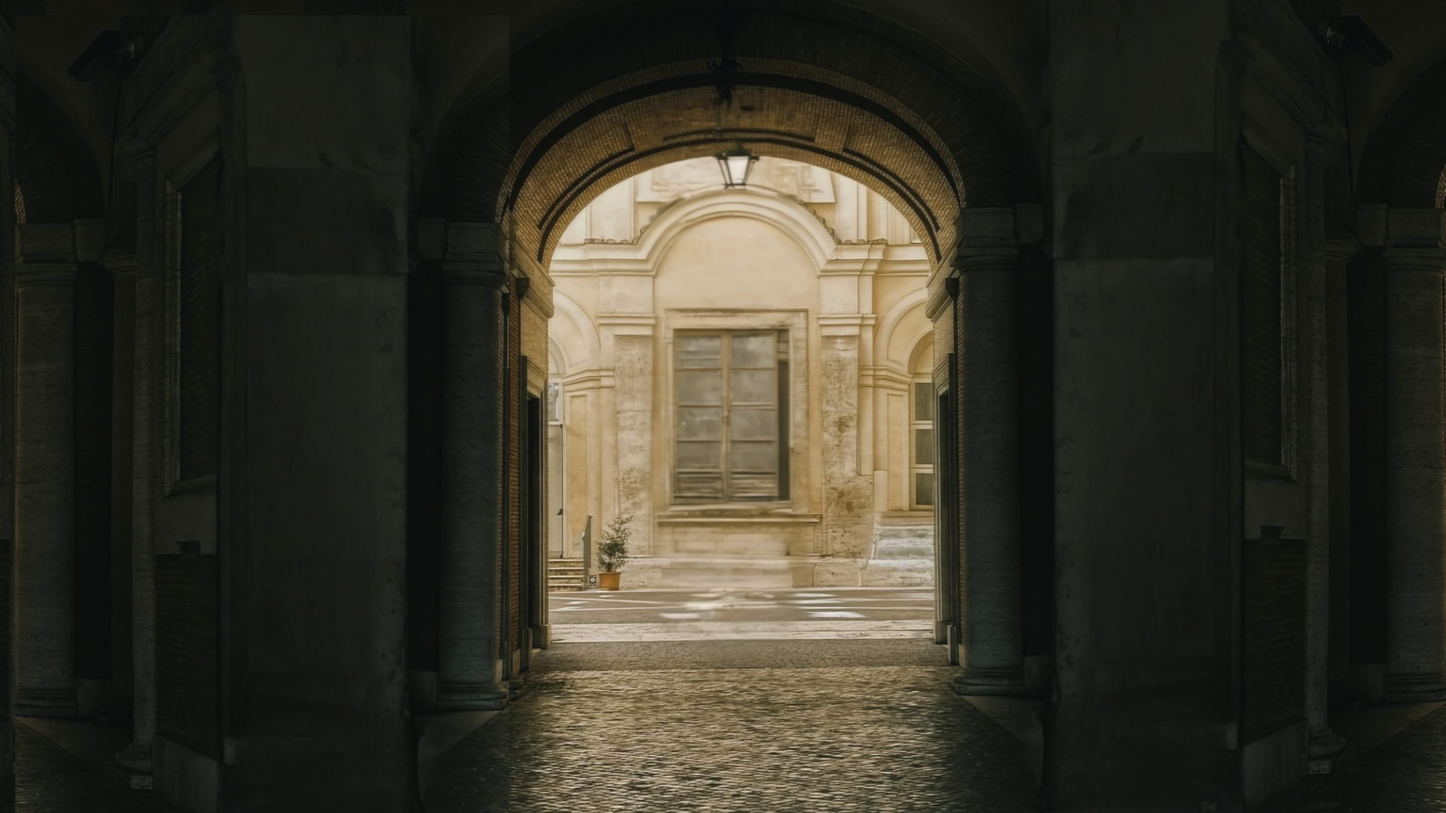
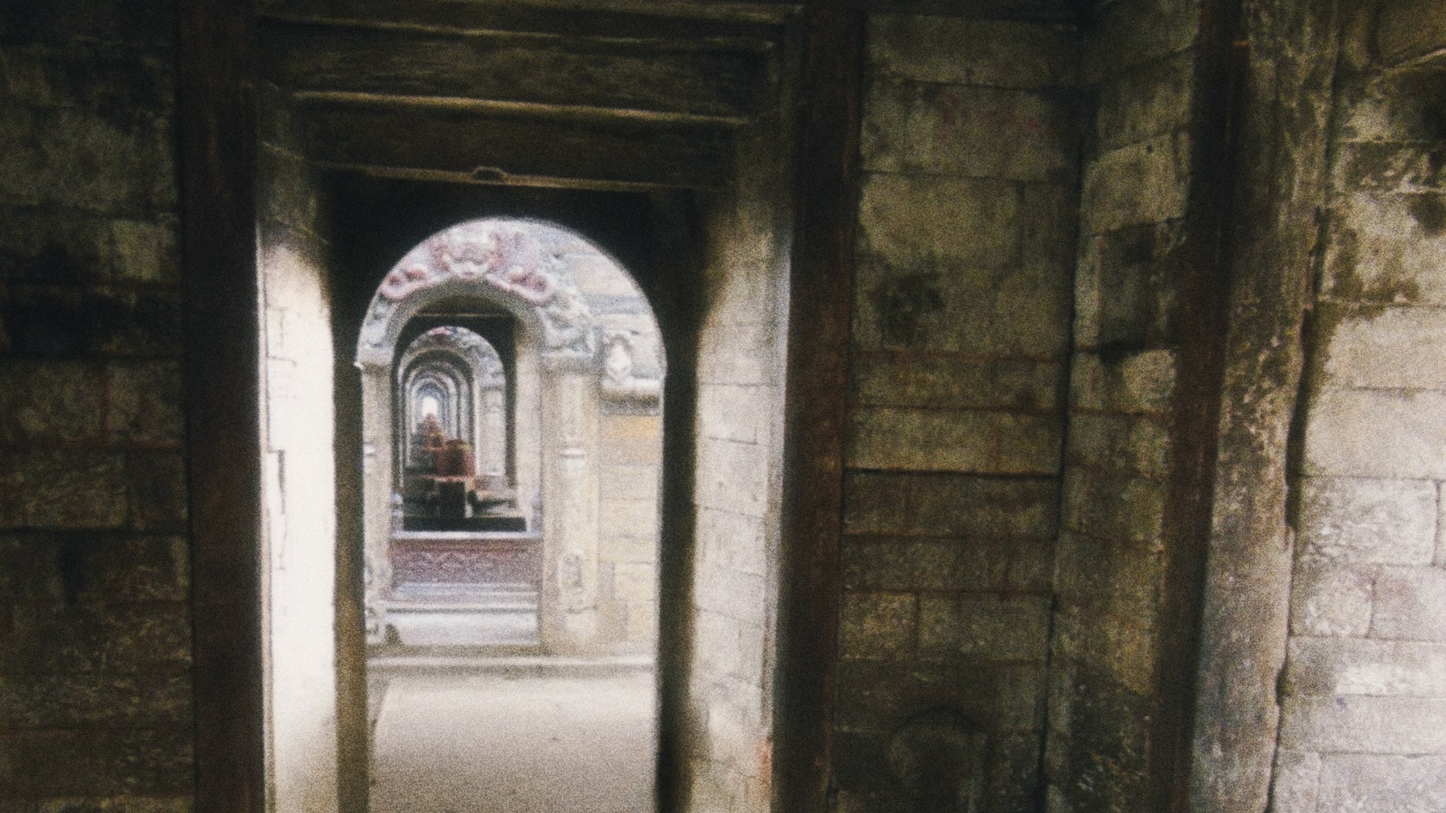
Vestibule: replace the generated arch with Abby's photograph (Nepal, 2013)
Claude-Session: https://claude.ai/code/session_017CfwZAVzcE1XJqFP6CWfhU

diff --git a/app/claude-pass.css b/app/claude-pass.css
@@ -2412,3 +2412,21 @@ html[data-nav-tone="dark"] .ambient-sound-control--global {
     max-width: 112px !important;
   }
 }
+
+/* VESTIBULE — the room is Abby's photograph (Nepal, 2013): doorway after
+   doorway receding to the light. The doorway sits left of centre, so on
+   desktop Exhibition is labelled over it, and on phones the photograph is
+   shifted so the doorway lands in the middle under the label. */
+@media (min-width: 701px) {
+  .vestibule__primary-passage {
+    left: 35.5% !important;
+  }
+}
+
+@media (max-width: 700px) {
+  .vestibule__stone,
+  .vestibule-arrival__image {
+    background-image: url("/media/architecture/vestibule-arch-mobile.jpg") !important;
+    background-position: 30% center !important;
+  }
+}
